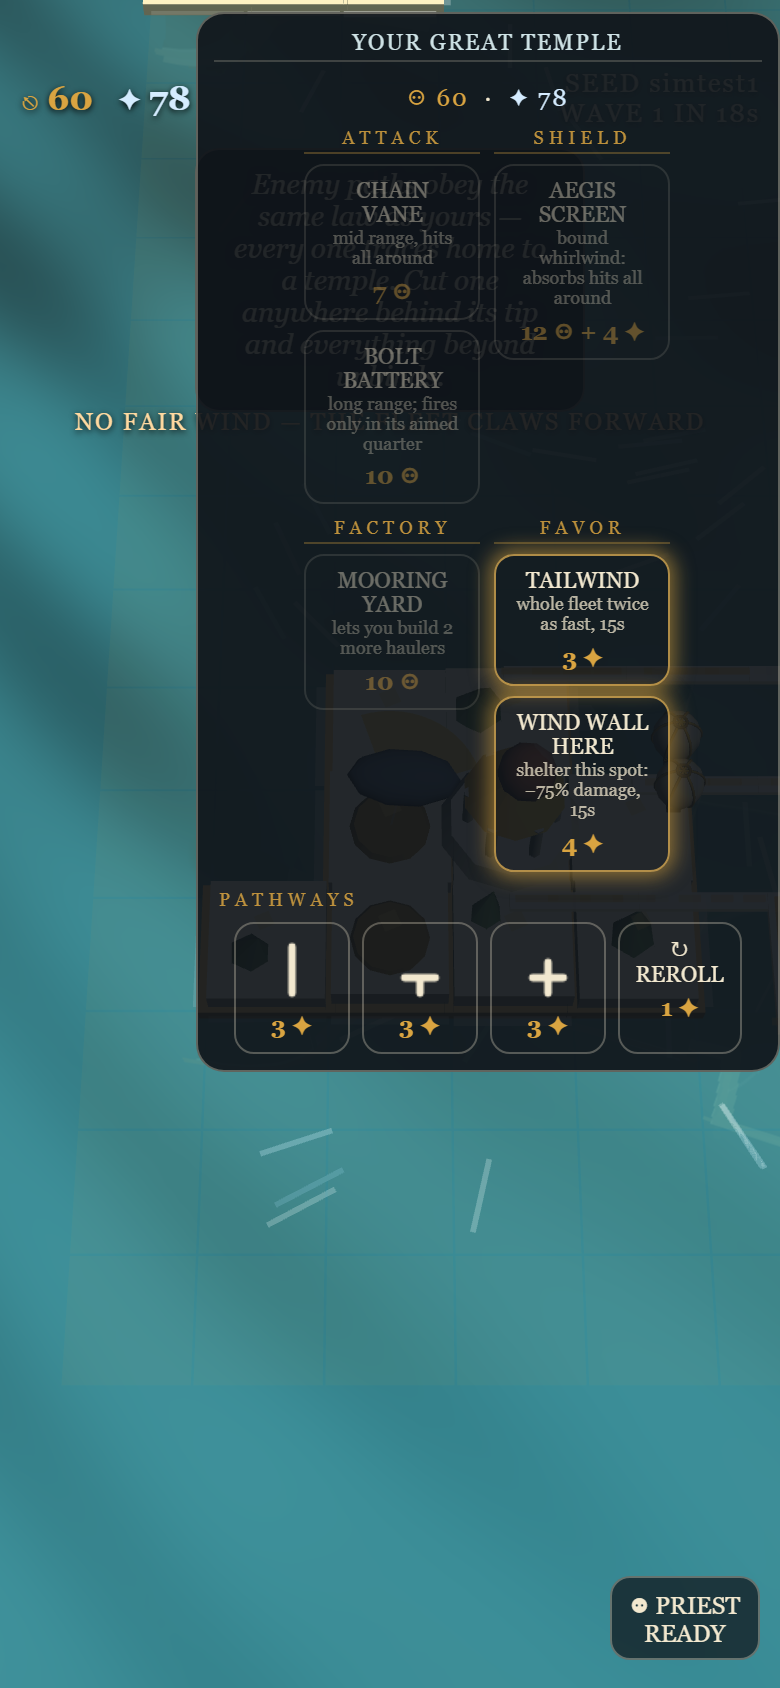
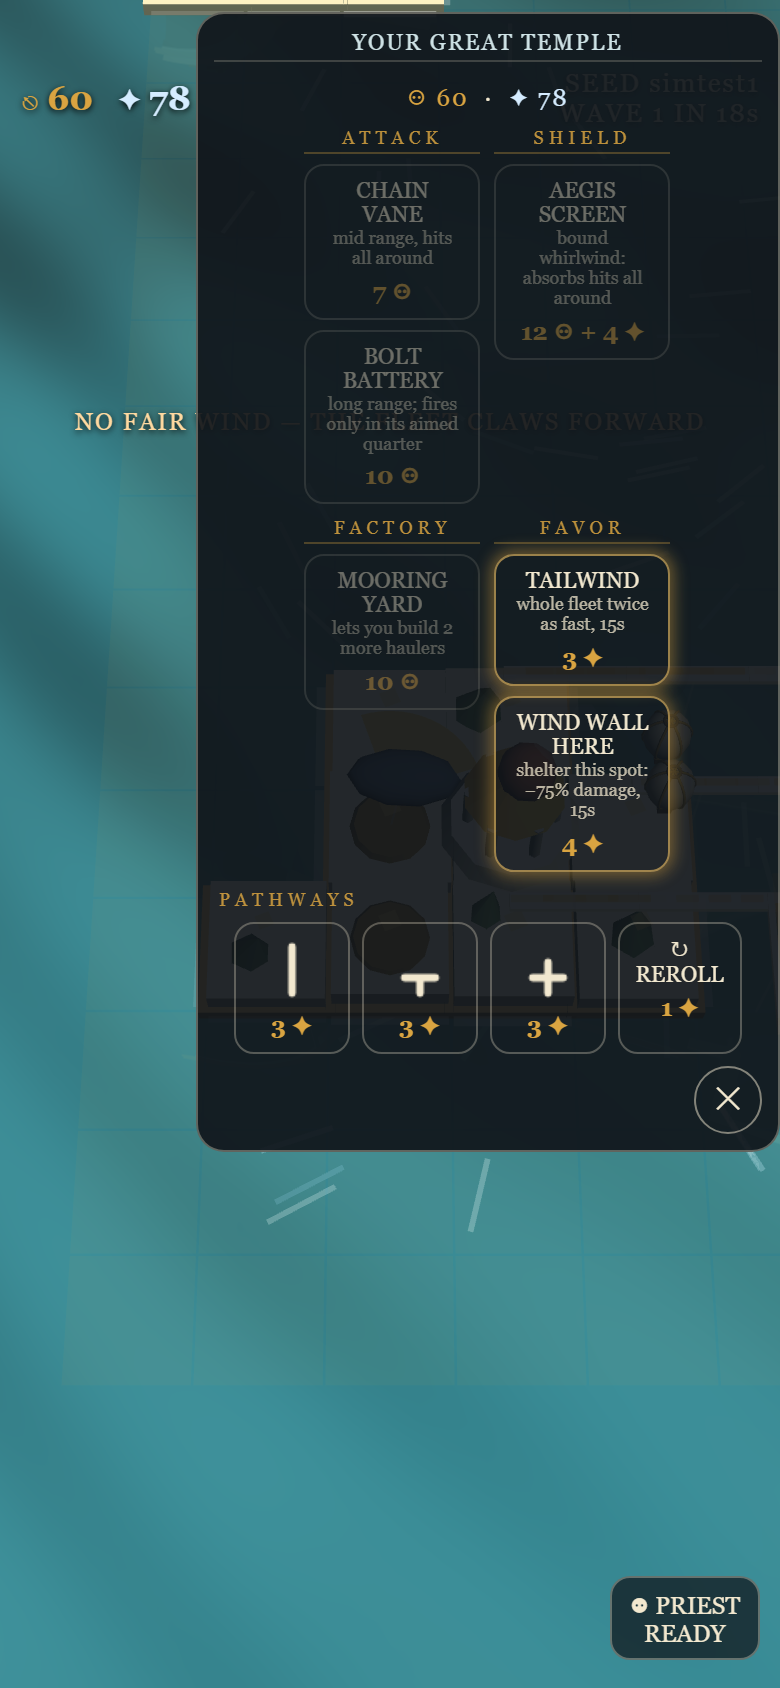
feat: dismiss X on the context menu (player-directed)
Round X chip at the end of the bottom row - lower-right by flow, so it
can never clip at a screen edge (two absolute-positioned attempts both
clipped when the menu hugged the viewport). Menu edge clamp widened.

Claude-Session: https://claude.ai/code/session_01NjEpo5MjLFBKVLFNZET6tb

Changed region(s): [[0.2462, 0.6161, 1.0, 0.7393], [0.7385, 0.4005, 0.8308, 0.4313]]

diff --git a/index.html b/index.html
@@ -174,6 +174,15 @@
   }
   #buildmenu button b { color: var(--gold); font-size: 12px; }
   #buildmenu button:disabled { opacity: 0.35; }
+  /* dismiss ✕ in the lower-right corner (player-directed): a flow item
+     at the end of the bottom row, so it can never clip off-screen */
+  #buildmenu button.dismissx {
+    min-width: 0; width: 34px; height: 34px; padding: 0; border-radius: 50%;
+    align-items: center; justify-content: center; font-size: 16px;
+    margin-left: auto; align-self: flex-end;
+    background: none; border: 1px solid rgba(242,232,207,0.5);
+    color: var(--ivory); line-height: 1;
+  }
   /* the demo puppeteer's visible 'press' on a menu button */
   #buildmenu button.demopress {
     background: var(--gold) !important; color: var(--ink) !important;
@@ -7700,6 +7709,14 @@ function openContextMenu(state, cell, tapX, tapY, fx, fz) {
     menu.appendChild(cap);
     for (const o of pieceOptions) menu.appendChild(o);
   }
+  // dismiss ✕ pinned to the lower-right corner (player-directed)
+  {
+    const x = document.createElement('button');
+    x.className = 'dismissx';
+    x.textContent = '✕';
+    x.addEventListener('click', (e) => { e.stopPropagation(); hideBuildMenu(); });
+    menu.appendChild(x);
+  }
   menu.classList.remove('hidden');
   if (UI.shimmerPending) {
     // the shimmer has now actually been seen — never again
@@ -7713,8 +7730,9 @@ function openContextMenu(state, cell, tapX, tapY, fx, fz) {
     menu.style.visibility = 'hidden';
     requestAnimationFrame(() => {
       const w = menu.offsetWidth, h = menu.offsetHeight;
-      const left = clamp(tapX - w / 2, 6, window.innerWidth - w - 6);
-      const top = clamp(tapY - h - 34, 6, window.innerHeight - h - 6);
+      // 18px margins right/bottom keep the overhanging dismiss ✕ on-screen
+      const left = clamp(tapX - w / 2, 6, window.innerWidth - w - 18);
+      const top = clamp(tapY - h - 34, 6, window.innerHeight - h - 18);
       menu.style.left = left + 'px';
       menu.style.top = top + 'px';
       menu.style.visibility = 'visible';

diff --git a/src/19_ui.js b/src/19_ui.js
@@ -862,6 +862,14 @@ function openContextMenu(state, cell, tapX, tapY, fx, fz) {
     menu.appendChild(cap);
     for (const o of pieceOptions) menu.appendChild(o);
   }
+  // dismiss ✕ pinned to the lower-right corner (player-directed)
+  {
+    const x = document.createElement('button');
+    x.className = 'dismissx';
+    x.textContent = '✕';
+    x.addEventListener('click', (e) => { e.stopPropagation(); hideBuildMenu(); });
+    menu.appendChild(x);
+  }
   menu.classList.remove('hidden');
   if (UI.shimmerPending) {
     // the shimmer has now actually been seen — never again
@@ -875,8 +883,9 @@ function openContextMenu(state, cell, tapX, tapY, fx, fz) {
     menu.style.visibility = 'hidden';
     requestAnimationFrame(() => {
       const w = menu.offsetWidth, h = menu.offsetHeight;
-      const left = clamp(tapX - w / 2, 6, window.innerWidth - w - 6);
-      const top = clamp(tapY - h - 34, 6, window.innerHeight - h - 6);
+      // 18px margins right/bottom keep the overhanging dismiss ✕ on-screen
+      const left = clamp(tapX - w / 2, 6, window.innerWidth - w - 18);
+      const top = clamp(tapY - h - 34, 6, window.innerHeight - h - 18);
       menu.style.left = left + 'px';
       menu.style.top = top + 'px';
       menu.style.visibility = 'visible';

diff --git a/shell.html b/shell.html
@@ -174,6 +174,15 @@
   }
   #buildmenu button b { color: var(--gold); font-size: 12px; }
   #buildmenu button:disabled { opacity: 0.35; }
+  /* dismiss ✕ in the lower-right corner (player-directed): a flow item
+     at the end of the bottom row, so it can never clip off-screen */
+  #buildmenu button.dismissx {
+    min-width: 0; width: 34px; height: 34px; padding: 0; border-radius: 50%;
+    align-items: center; justify-content: center; font-size: 16px;
+    margin-left: auto; align-self: flex-end;
+    background: none; border: 1px solid rgba(242,232,207,0.5);
+    color: var(--ivory); line-height: 1;
+  }
   /* the demo puppeteer's visible 'press' on a menu button */
   #buildmenu button.demopress {
     background: var(--gold) !important; color: var(--ink) !important;

diff --git a/buildlog/BUILDLOG.md b/buildlog/BUILDLOG.md
@@ -197,3 +197,4 @@ ENTRY TEMPLATE — copy for each session.
 | 68 | **Media refresh (player: 'update the readme and screenshots... video of best match seed/gif' → 'a whole new set'):** all 16 screenshots retaken on the current build (capture driver now ends the guided tut + suppresses the lane-law pill — two shots were photobombed); 3 new feature shots (wrath countdown, Zeus verdict, fleet-waits ticker); new film on seed optc with the sweep-scored player — first take (w9iwff) diverged in-browser to a wave-11 loss, second (optc, uncapped) won by arbitration but with 508 segments of favor-overflow road spam on camera, final take caps expansion at 140 segs: 14 waves, both networks ground to stubs (27 vs 22), temple holds, ZEUS CALLS THE MATTER SETTLED. README: new §15 'Every match ends', §12/§14 rewritten | `a8adb22` | docs: full media refresh |
 | 69 | **Release zip (player-directed) + CONFIRM legibility (player: 'what does confirm 0.57 mean'):** WINDWARD_submission.zip 0.50 MB — index.html top-level, vendor/, design-intent.docx (refreshed to 494 words: wind law + guaranteed verdict replace stale nine-and-done claims), buildlog.md (renamed per rules). Formal offline test on a FRESH extraction: file:// load, zero non-file requests, no page errors, one real minute of play. Anonymity scans clean (no names/URLs anywhere; title WINDWARD). The ghost's CONFIRM now reads 'CONFIRM · HEADWIND ×0.57' / FAIR WIND / TAILWIND, banded by the wind-law closure threshold — the number was the §21A.5 wind multiplier, now it says so | `4eb4989` | feat: release zip, CONFIRM wording |
 | 70 | **Library audit + GitHub release (player-directed):** confirmed the zip carries every external file the game references — exactly three (vendor/three.min.js + Water.js script tags, waternormals.jpg via TextureLoader); audio synthesized, art procedural, fonts system, favicon data-URI; the offline test's zero-non-file-requests already proved completeness. Published release v1.0-prototype with the zip attached: github.com Releases tag v1.0-prototype (URL kept out of the packaged files — anonymity applies to the SUBMISSION, the repo hosting is separate) | (release) | chore: v1.0-prototype release |
+| 71 | **Demo trust fixes (player watched: hauler 'without having a mooring'; wpm94e 'plot occupied error again'):** demonstrator raises a MOORING YARD before any hauler buy (GT moors two, legal but read as a cheat) and island-menu BUILD HAULER shows N/M MOORED; refused buttons carry data-refused and the puppeteer never presses them — any refused/silent failure is blacklisted 30s and it moves to the next priority (verified on wpm94e: refused bolt aborts in one beat; full teach order paths→priest→temple→vane→yard→haulers runs clean). Headless repro found the reported seed CLEAN on current build — cached deployed build suspected — but the loop is now impossible by construction | `0b05ab4` | fix: demo teach order + no-loop |
